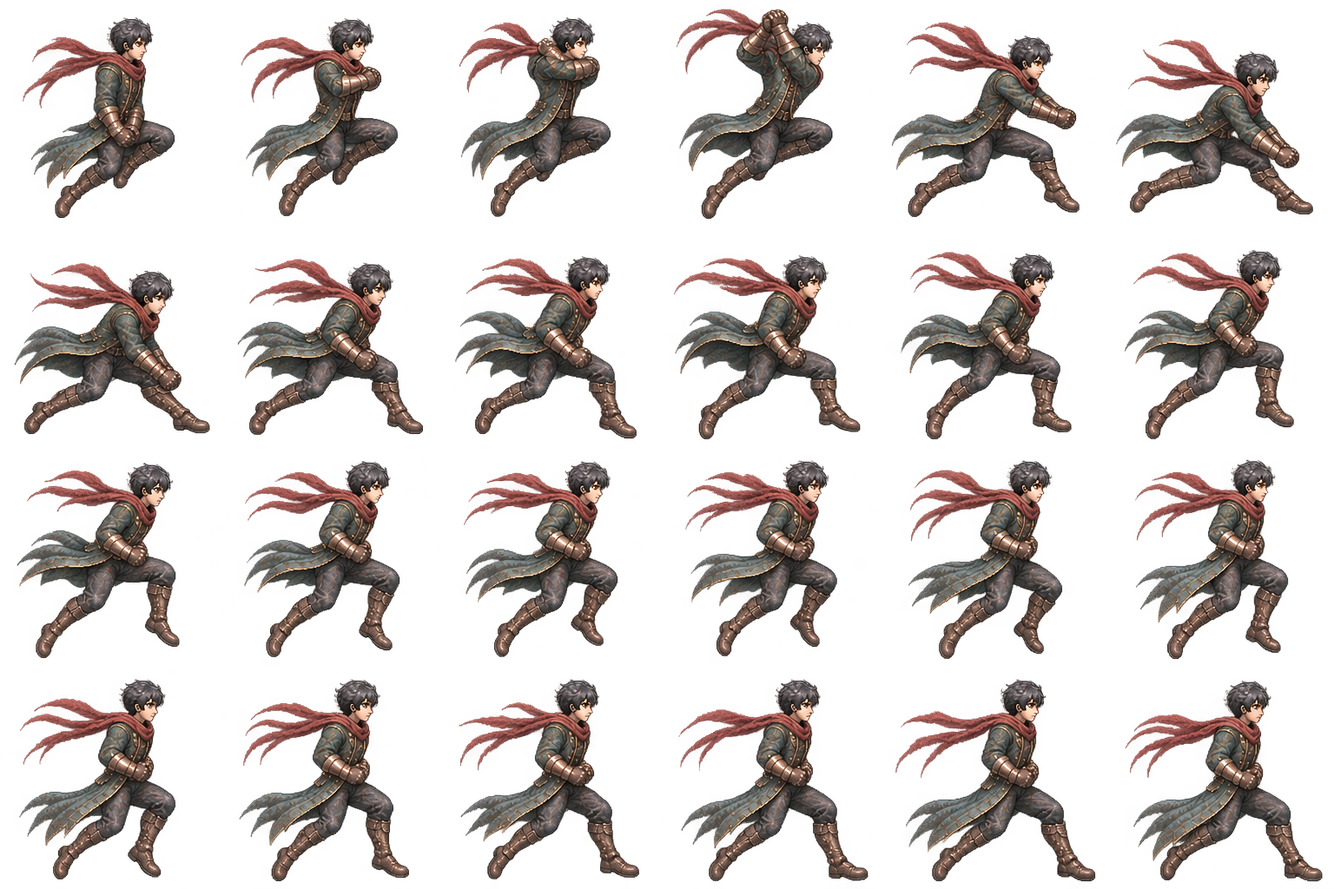
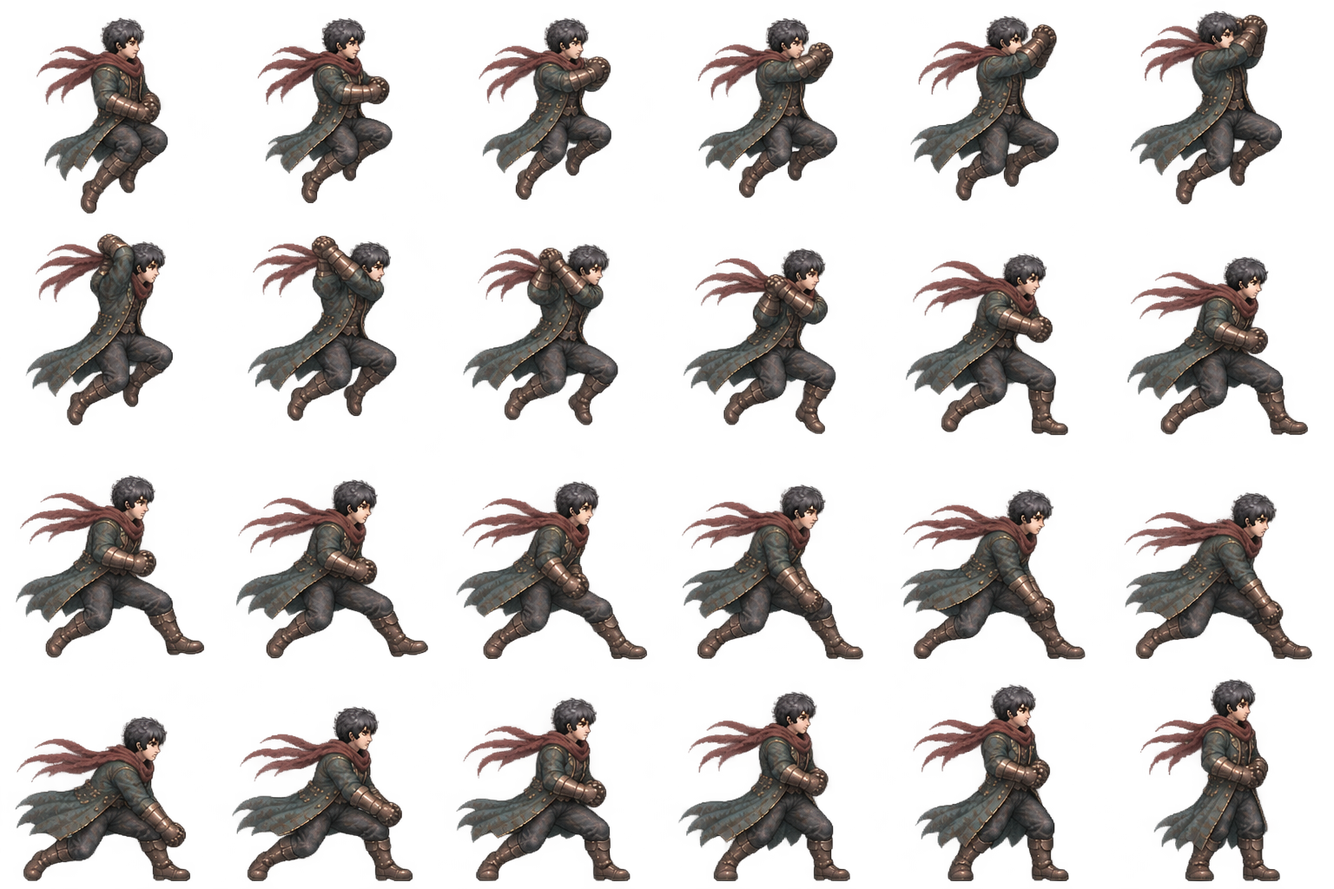
Make sword swings readable and match hero palettes between poses

diff --git a/seventh-bell/src/cuts.js b/seventh-bell/src/cuts.js
@@ -4,22 +4,24 @@ import {HERO_RIG,HERO_FEET} from './hero-rig.js';
 export const STEEL={length:48,guard:.185,grip:.095,axis:.5};
 export const CUT_FRAMES=24;
 export const CUT_CLIPS=['light1','light2','light3','heavy','air','plunge','thrust'];
-const HANDS={"light1":[[80,68],[38,30],[45,15],[47,14],[102,67],[102,98],[99,96],[100,94],[99,89],[93,85],[86,78],[87,73],[85,69],[85,69],[85,69],[85,69],[85,69],[85,69],[85,69],[85,69],[85,69],[85,69],[85,69],[85,69]],"light2":[[81,80],[80,85],[75,87],[75,89],[95,58],[107,23],[99,15],[101,24],[103,35],[101,49],[96,58],[93,66],[87,67],[86,68],[86,69],[86,70],[86,70],[86,71],[85,73],[85,73],[85,73],[85,73],[85,73],[85,73]],"light3":[[80,75],[84,53],[85,36],[66,16],[101,64],[113,89],[97,98],[97,91],[94,83],[90,78],[89,71],[87,68],[86,67],[86,67],[86,67],[86,67],[86,67],[86,67],[86,68],[86,68],[86,68],[86,68],[86,68],[86,68]],"heavy":[[87,77],[85,53],[82,36],[72,13],[102,38],[111,97],[96,103],[95,91],[92,83],[90,79],[87,74],[87,69],[84,69],[85,69],[85,69],[85,69],[85,69],[85,69],[85,70],[85,70],[85,70],[85,70],[85,70],[85,70]],"air":[[79,80],[84,49],[78,30],[65,9],[104,66],[112,91],[96,98],[96,90],[94,83],[91,79],[90,75],[88,71],[86,70],[86,70],[86,70],[86,70],[86,70],[86,70],[86,70],[86,70],[86,70],[86,70],[86,70],[86,70]],"plunge":[[88,68],[84,44],[86,38],[80,47],[79,73],[88,110],[79,98],[77,86],[80,77],[83,70],[85,68],[85,67],[85,67],[85,67],[85,67],[85,67],[85,67],[85,67],[85,67],[85,67],[85,67],[85,67],[85,67],[85,67]],"thrust":[[81,68],[63,66],[52,65],[47,65],[101,52],[116,51],[119,49],[120,49],[120,50],[117,53],[111,56],[104,57],[98,59],[95,61],[88,64],[88,65],[88,65],[88,66],[87,65],[87,65],[87,65],[87,65],[87,65],[87,65]]};
+const HANDS={"light1":[[82,70],[87,59],[87,47],[90,38],[92,27],[90,18],[57,14],[66,23],[69,28],[78,40],[87,56],[88,70],[87,72],[87,77],[91,84],[93,90],[97,96],[100,99],[98,98],[92,88],[90,81],[92,73],[88,67],[88,64]],"light2":[[81,80],[80,85],[75,87],[75,89],[95,58],[107,23],[99,15],[101,24],[103,35],[101,49],[96,58],[93,66],[87,67],[86,68],[86,69],[86,70],[86,70],[86,71],[85,73],[85,73],[85,73],[85,73],[85,73],[85,73]],"light3":[[96,91],[92,80],[90,62],[91,46],[90,34],[87,14],[57,14],[65,21],[68,27],[78,39],[87,59],[93,76],[92,83],[92,84],[95,91],[97,100],[100,104],[102,105],[101,102],[96,93],[92,81],[90,72],[89,64],[89,61]],"heavy":[[83,70],[87,60],[86,46],[90,37],[91,28],[89,17],[57,14],[66,22],[69,27],[78,39],[86,56],[88,70],[88,73],[88,77],[92,85],[93,91],[97,98],[99,100],[98,98],[93,90],[91,82],[91,73],[88,67],[88,64]],"air":[[82,69],[86,59],[87,48],[90,38],[91,28],[90,17],[57,13],[66,21],[68,27],[78,39],[87,56],[89,71],[88,74],[89,78],[93,86],[95,92],[98,98],[100,101],[99,99],[94,91],[91,82],[91,73],[89,67],[89,64]],"plunge":[[88,68],[84,44],[86,38],[80,47],[79,73],[88,110],[79,98],[77,86],[80,77],[83,70],[85,68],[85,67],[85,67],[85,67],[85,67],[85,67],[85,67],[85,67],[85,67],[85,67],[85,67],[85,67],[85,67],[85,67]],"thrust":[[81,68],[63,66],[52,65],[47,65],[101,52],[116,51],[119,49],[120,49],[120,50],[117,53],[111,56],[104,57],[98,59],[95,61],[88,64],[88,65],[88,65],[88,66],[87,65],[87,65],[87,65],[87,65],[87,65],[87,65]]};
 const FEET=HERO_FEET;
 const ROOTS={"light1":[70,70,70,70,70,70,70,70,70,70,70,70,70,70,70,70,70,70,70,70,70,70,70,70],"light2":[70,70,70,70,70,70,70,70,70,70,70,70,70,70,70,70,70,70,70,70,70,70,70,70],"light3":[70,70,70,70,70,70,70,70,70,70,70,70,70,70,70,70,70,70,70,70,70,70,70,70],"heavy":[70,70,70,70,70,70,70,70,70,70,70,70,70,70,70,70,70,70,70,70,70,70,70,70],"air":[70,70,70,70,70,70,70,70,70,70,70,70,70,70,70,70,70,70,70,70,70,70,70,70],"plunge":[74,74,74,74,74,74,74,74,74,74,74,74,74,74,74,74,74,74,74,74,74,74,74,74],"thrust":[70,70,70,70,70,70,70,70,70,70,70,70,70,70,70,70,70,70,70,70,70,70,70,70]};
-const ANGLES={"light1":[20,-70,-120,-130,-60,30,30,30,30,30,30,28,26,24,22,20,20,20,20,20,20,20,20,20],"light2":[20,25,20,15,35,-110,-110,-110,-110,-110,-105,-95,-80,-60,-40,-20,0,15,20,20,20,20,20,20],"light3":[20,-30,-90,-130,-70,35,35,35,35,35,35,32,29,26,23,20,20,20,20,20,20,20,20,20],"heavy":[20,-30,-90,-135,-75,40,40,40,40,40,40,36,32,28,24,20,20,20,20,20,20,20,20,20],"air":[20,-30,-90,-130,-65,65,65,65,65,65,60,55,50,45,40,35,30,25,20,20,20,20,20,20],"plunge":[35,70,90,90,90,90,70,60,50,45,42,40,38,36,35,35,35,35,35,35,35,35,35,35],"thrust":[0,0,0,0,0,0,0,0,0,0,0,0,0,0,0,0,0,0,0,0,0,0,0,0]};
-// Four short anticipation drawings, two contact drawings, eighteen recovery
-// drawings. Cancels can intentionally interrupt recovery; there is no 3D yaw.
+const ANGLES={"light1":[20,-5,-35,-65,-100,-125,-135,-120,-100,-80,-55,-25,0,20,35,40,40,40,38,34,30,26,23,20],"light2":[20,25,20,15,35,-110,-110,-110,-110,-110,-105,-95,-80,-60,-40,-20,0,15,20,20,20,20,20,20],"light3":[32,15,-20,-55,-95,-130,-135,-120,-100,-80,-55,-25,0,20,35,40,40,40,38,34,30,26,23,20],"heavy":[20,-5,-35,-65,-100,-135,-145,-120,-100,-80,-55,-25,0,20,35,40,40,40,38,34,30,26,23,20],"air":[20,-5,-35,-65,-100,-125,-135,-120,-100,-80,-55,-25,0,20,35,40,40,40,38,34,30,26,23,20],"plunge":[35,70,90,90,90,90,70,60,50,45,42,40,38,36,35,35,35,35,35,35,35,35,35,35],"thrust":[0,0,0,0,0,0,0,0,0,0,0,0,0,0,0,0,0,0,0,0,0,0,0,0]};
+// Body drawings are timed by technique. Broad cuts have ten actual in-between
+// drawings during the swing; slowing two impact pictures would still snap.
+const CLIP={charge:'heavy',thrust:'thrust',upper:'light2',counter:'light1',plunge:'plunge'};
+export const CUT_PHASES={light1:[6,10,8],light3:[6,10,8],heavy:[6,10,8],air:[6,10,8],light2:[4,2,18],thrust:[4,2,18],plunge:[4,2,18]};
+export function cutFrameTime(clip,spec,frame){const [prep,swing,recover]=CUT_PHASES[clip];return frame<prep?spec.windup*(frame+.5)/prep:frame<prep+swing?spec.windup+(spec.end-spec.windup)*(frame-prep+.5)/swing:spec.end+(spec.duration-spec.end)*(frame-prep-swing+.5)/recover;}
 export function cutStage(a){
- const s=a.spec,t=a.t;
- if(a.kind==='charge')return Math.min(3,Math.floor(t/.3*4));
+ const s=a.spec,t=a.t,clip=CLIP[a.kind]||(a.air?'air':a.kind),[prep,swing,recover]=CUT_PHASES[clip];
+ if(a.kind==='charge')return Math.min(prep-1,Math.floor(t/.3*prep));
  if(a.kind==='plunge'&&a.landed)return 5+Math.min(18,Math.floor((a.recoveryT||0)/.36*19));
  if(a.kind==='plunge')return t<s.windup?Math.min(3,Math.floor(t/s.windup*4)):4;
- if(t<s.windup)return Math.min(3,Math.floor(t/s.windup*4));
- if(t<s.end)return 4+Math.min(1,Math.floor((t-s.windup)/(s.end-s.windup)*2));
- return 6+Math.min(17,Math.floor((t-s.end)/(s.duration-s.end)*18));
+ if(t<s.windup)return Math.min(prep-1,Math.floor(t/s.windup*prep));
+ if(t<s.end)return prep+Math.min(swing-1,Math.floor((t-s.windup)/(s.end-s.windup)*swing));
+ return prep+swing+Math.min(recover-1,Math.floor((t-s.end)/(s.duration-s.end)*recover));
 }
-const CLIP={charge:'heavy',thrust:'thrust',upper:'light2',counter:'light1',plunge:'plunge'};
 export function cutAngle(a){return ANGLES[CLIP[a.kind]||(a.air?'air':a.kind)][cutStage(a)];}
 export function cutPose(p,clock=0){const a=p.action;
  if(!a){if(p.grounded&&Math.abs(p.vx)<12&&!p.brake&&!p.land&&!p.hurt&&!p.dead){const col=Math.floor(clock*5)%8;return{sheet:'cut-body',row:3,col,size:HERO_RIG.idle.size,root:[79.5,79.5,79.5,79.5,79.5,78.5,78.5,79][col],foot:HERO_FEET.idle[col],hand:[[68,80],[68,80],[69,80],[68,80],[68,80],[67,80],[67,80],[68,80]][col],angle:20,steel:true};}return null;}

diff --git a/seventh-bell/src/art.js b/seventh-bell/src/art.js
@@ -1,15 +1,23 @@
+import {heroPalette,matchHeroPalette} from './hero-palette.js';
 import {HERO_BASE_SIZE} from './hero-rig.js';
 import {STEEL} from './cuts.js';
 import {registeredPose} from './blade.js';
 import {PATTERNS} from './bosses.js';
 export const SHEETS={'cut-light1':[6,4,128],'cut-light2':[6,4,128],'cut-light3':[6,4,128],'cut-heavy':[6,4,128],'cut-air':[6,4,128],'cut-plunge':[6,4,128],'cut-thrust':[6,4,128],'cut-body':[8,4,128],'steel-blade':[1,1,128],tutor:[6,4,128],swordplay:[8,4,128],'motion-extras':[8,4,128],'echo-blade':[4,2,128],arkein:[6,4,128],traps:[4,3,128],repairman:[8,8,64],remnants:[8,6,64],edran:[6,4,128],marie:[6,4,128],brag:[6,4,128],leonel:[6,4,128],services:[4,2,128],'archive-objects':[4,2,128],objects:[4,4,128],masonry:[4,4,128]};
 const sheets=new Map(),cache=new Map();
+let palette;
+const heroSheets=new Set(['repairman','cut-body','motion-extras','swordplay',...Object.keys(SHEETS).filter(k=>k.startsWith('cut-'))]);
+function matchHero(id,data){
+ if(!heroSheets.has(id))return;
+ if(!palette){const im=sheets.get('cut-body'),c=document.createElement('canvas');c.width=c.height=128;const ctx=c.getContext('2d');ctx.imageSmoothingEnabled=false;ctx.drawImage(im,0,im.height*3/4,im.width/8,im.height/4,0,0,128,128);palette=heroPalette(ctx.getImageData(0,0,128,128).data);}
+ matchHeroPalette(data,palette);
+}
 export async function loadArt(progress=()=>{}){let n=0;const ids=[...Object.keys(SHEETS),'kingdom','ruins','cathedral','foundry','archive','palace'];await Promise.all(ids.map(id=>new Promise((resolve,reject)=>{const image=new Image();image.onload=()=>{sheets.set(id,image);progress(++n/ids.length);resolve();};image.onerror=()=>reject(Error(id));image.src=new URL('../assets/'+id+'.png',import.meta.url).href+new URL(import.meta.url).search;})));}
 export function sheet(id){return sheets.get(id);}
 export function cell(id,col,row){const key=[id,col,row].join(':');if(cache.has(key))return cache.get(key);const im=sheets.get(id);if(!im)throw Error('Missing artwork '+id);const [cols,rows,size]=SHEETS[id],c=document.createElement('canvas');c.width=c.height=size;const ctx=c.getContext('2d',{willReadFrequently:true});ctx.imageSmoothingEnabled=false;let sx=col*im.width/cols,sy=row*im.height/rows,sw=im.width/cols,sh=im.height/rows;
  if(id==='objects'||id==='masonry'){const ys=[0,.23,.487,.744,1];sy=im.height*ys[row];sh=im.height*(ys[row+1]-ys[row]);if(row===0){sy+=12;sh-=15;}}
  ctx.drawImage(im,sx,sy,sw,sh,0,0,size,size);let data=ctx.getImageData(0,0,size,size);if(id==='archive-objects'&&row===1&&col<3){let minX=size,minY=size,maxX=0,maxY=0;for(let y=0;y<size;y++)for(let x=0;x<size;x++)if(data.data[(y*size+x)*4+3]>=150){minX=Math.min(minX,x);minY=Math.min(minY,y);maxX=Math.max(maxX,x);maxY=Math.max(maxY,y);}if(minX<=maxX){const copy=document.createElement('canvas');copy.width=copy.height=size;copy.getContext('2d').drawImage(c,0,0);ctx.clearRect(0,0,size,size);ctx.drawImage(copy,minX,minY,maxX-minX+1,maxY-minY+1,0,0,size,size);data=ctx.getImageData(0,0,size,size);}}
- for(let i=3;i<data.data.length;i+=4)data.data[i]=id==='masonry'?255:data.data[i]>=150?255:0;let bottom=0;for(let i=3;i<data.data.length;i+=4)if(data.data[i])bottom=Math.floor(i/(size*4))+1;let minX=size,minY=size,maxX=-1,maxY=-1;for(let y=0;y<size;y++)for(let x=0;x<size;x++)if(data.data[(y*size+x)*4+3]){minX=Math.min(minX,x);minY=Math.min(minY,y);maxX=Math.max(maxX,x);maxY=Math.max(maxY,y);}c.sourceAspect=sw/sh;c.opaqueBounds={x:minX,y:minY,w:maxX-minX+1,h:maxY-minY+1};c.footPad=size-bottom;ctx.putImageData(data,0,0);cache.set(key,c);return c;}
+ for(let i=3;i<data.data.length;i+=4)data.data[i]=id==='masonry'?255:data.data[i]>=150?255:0;matchHero(id,data.data);let bottom=0;for(let i=3;i<data.data.length;i+=4)if(data.data[i])bottom=Math.floor(i/(size*4))+1;let minX=size,minY=size,maxX=-1,maxY=-1;for(let y=0;y<size;y++)for(let x=0;x<size;x++)if(data.data[(y*size+x)*4+3]){minX=Math.min(minX,x);minY=Math.min(minY,y);maxX=Math.max(maxX,x);maxY=Math.max(maxY,y);}c.sourceAspect=sw/sh;c.opaqueBounds={x:minX,y:minY,w:maxX-minX+1,h:maxY-minY+1};c.footPad=size-bottom;ctx.putImageData(data,0,0);cache.set(key,c);return c;}
 export const PROP={arch:[0,1],tower:[1,1],trainingExit:[2,1],shrine:[2,1],gate:[3,1],tree:[0,2],statue:[1,2],columns:[2,2],lift:[3,2],chest:[0,3],lantern:[1,3],lever:[2,3],npc:[3,3],letter:[0,3],bellrope:[2,3],valve:[2,3],ending:[1,1],archiveway:[1,1]};
 export function draw(ctx,id,col,row,x,y,w,h,flip=false,alpha=1,alignFeet=false){const im=cell(id,col,row);ctx.save();ctx.globalAlpha=alpha;ctx.translate(Math.round(x),Math.round(y+(alignFeet?im.footPad*h/im.height:0)));if(flip)ctx.scale(-1,1);ctx.drawImage(im,Math.round(-w/2),Math.round(-h),w,h);ctx.restore();}
 const ARCHIVE_PROP={archiveShelf:[0,0],lectern:[1,0],finalrecord:[1,0],indexwheel:[2,0],archiveLamp:[3,0],archiveChest:[3,1]};

diff --git a/seventh-bell/src/game.js b/seventh-bell/src/game.js
@@ -85,7 +85,7 @@ export class Game{
    if(!p.grounded&&a.spec&&a.kind!=='heal'&&a.kind!=='skill')a.air=true;
    if(a.kind==='heal'&&a.t>=a.spec.windup&&!a.applied){a.applied=true;p.hp=Math.min(this.maxHp,p.hp+Math.ceil(this.maxHp*POTION.ratio));this.fx(p.x,p.y-25,'heal',.8);this.save();}
    else if(a.kind!=='heal'&&a.spec&&a.t>=a.spec.windup&&a.t<a.spec.end)this.resolveAttack(a);
-   if(a.impactPause&&a.t>=(a.spec.windup+a.spec.end)/2){this.hitstop=Math.max(this.hitstop,a.impactPause);a.impactPause=0;}
+   if(a.impactPause&&a.t>=a.spec.windup+(a.spec.end-a.spec.windup)*.8){this.hitstop=Math.max(this.hitstop,a.impactPause);a.impactPause=0;}
    const duration=a.kind==='parry'?.55:p.comboQueued&&a.spec.chainAt?a.spec.chainAt:a.spec.duration;
    if(a.t>=duration){const next=a.kind==='light1'?'light3':null,queued=p.comboQueued;p.action=null;p.comboQueued=false;if(queued&&next)this.startAttack(next);}
   }
@@ -102,7 +102,7 @@ export class Game{
  for(const e of [...this.world.enemies,this.world.boss]){if(e.dead||e.boss&&(!this.bossActive||e!==this.world.boss)||a.hit.has(e.id)||!touches(body(e)))continue;a.hit.add(e.id);this.damageEnemy(e,this.attackDamage(a),p.dir,s.push,a.kind);if(a.kind==='light3'&&p.grounded&&!a.impact){a.impact=true;this.fx(p.x+p.dir*26,p.y,'dust',.35);}if(a.kind==='upper'&&!e.boss&&!e.training&&!e.flying&&!e.dead){e.vy=-255;e.grounded=false;e.y-=1;}this.lastHits.push({enemy:e.id,kind:a.kind,t:a.t,windup:s.windup,end:s.end,blade:{...blade}});this.lastHits=this.lastHits.slice(-30);}
  const seal=this.world.objects.find(o=>o.id==='forgecache');if(a.kind==='heavy'&&this.profile.flags.forge&&!this.profile.flags.slag&&touches({x:seal.x-22,y:seal.y-35,w:44,h:35})){this.profile.flags.slag=true;this.tell('보물함을 묶은 쇠사슬이 끊어졌다.');this.fx(seal.x,seal.y-20,'hit',.8);this.sound('mechanism');this.save();}}
 
- hitPause(duration,kind){const a=this.p.action;if(kind==='light3'&&a?.kind==='light3'&&a.t<(a.spec.windup+a.spec.end)/2)a.impactPause=Math.max(a.impactPause||0,duration);else this.hitstop=Math.max(this.hitstop,duration);}
+ hitPause(duration,kind){const a=this.p.action;if(['light3','heavy'].includes(kind)&&a?.kind===kind&&a.t<a.spec.windup+(a.spec.end-a.spec.windup)*.8)a.impactPause=Math.max(a.impactPause||0,duration);else this.hitstop=Math.max(this.hitstop,duration);}
  damageEnemy(e,n,dir,push=80,kind=null){const weight=['heavy','plunge','counter'].includes(kind)?1.5:kind==='light3'?1.65:1;if(e.training){if(!this.inTutorial||e.dead)return;tutorialHit(this,e,kind,n);this.hitPause(.05*weight,kind);this.shake=1.2*weight;this.fx(e.x,e.y-e.h*.5,'hit',.3);this.sound(kind==='light3'?'slamHit':'hit');return;}if(e.dead||e.state==='weakened'&&e.grace>0)return;e.hp=Math.max(0,e.hp-n);e.hit=.13;e.vx=dir*push;e.stagger=e.boss?Math.max(e.stagger,.09):kind==='light3'?.48:.34;if(!e.boss){e.state='recover';e.t=0;}this.hitPause((e.boss?.06:.05)*weight,kind);this.shake=(e.boss?2:1.2)*weight;this.fx(e.x,e.y-e.h*.5,'hit',.3);this.sound(kind==='light3'?'slamHit':'hit');this.effects.push({kind:'number',x:e.x,y:e.y-e.h-6,text:String(n),life:.65,max:.65});
  if(e.boss&&e.phase===2&&e.hp<=e.maxHp*.115&&this.profile.flags[BOSS_DEFS[e.id].clue]&&!e.offered){e.offered=true;e.hp=Math.max(1,e.hp);e.state='weakened';e.stagger=0;e.t=0;e.grace=1.3;this.p.comboQueued=false;this.projectiles=[];this.tell('종의 박자가 기록과 같다. 가까이서 W를 누르면 울림을 맞출 수 있다.');return;}
  if(e.hp<=0){e.dead=true;e.deathT=0;e.vx=0;if(e.boss){this.clearBoss('slain');return;}if(!this.profile.killed.includes(e.id))this.profile.killed.push(e.id);this.profile.marks+=(e.type==='watchman'?10:12)+(e.rank||0)*4;this.gainXp((e.type==='watchman'?18:22)+(e.rank||0)*5);this.sound('coin');}}

diff --git a/seventh-bell/src/main.js b/seventh-bell/src/main.js
@@ -3,7 +3,7 @@ import {LESSONS,trainerOf} from './tutorial.js';
 import {BRANCHES,learnReason} from './skills.js';
 import {mapX,originalX,chapterAtWorld} from './layout.js';
 import {registeredPose,worldBlade} from './blade.js';
-import {CUT_CLIPS,CUT_FRAMES} from './cuts.js';
+import {CUT_CLIPS,CUT_FRAMES,CUT_PHASES,cutFrameTime} from './cuts.js';
 import {ATTACKS} from './data.js';
 import {TRAVEL_COST} from './economy.js';
 import {BOSS_DEFS} from './bosses.js';
@@ -72,7 +72,7 @@ async function boot(){await loadArt(n=>$('#load-percent').textContent=Math.round
  const canvas=$('#world');canvas.addEventListener('contextmenu',e=>e.preventDefault());canvas.addEventListener('pointerdown',e=>{if(modal||!$('#welcome').hidden||e.pointerType==='touch')return;e.preventDefault();audio.unlock();canvas.focus();if(e.button===0){const b=canvas.getBoundingClientRect(),x=(e.clientX-b.left)/b.width*render.width+render.x;if(!game.p.action)game.p.dir=x>game.p.x?1:-1;game.press('attack',input);}if(e.button===2)game.press('parry');});
  function release(e){const b=e.currentTarget;if(b.dataset.hold)input[b.dataset.hold]=false;if(b.dataset.press==='jump')input.jump=false;if(b.dataset.press==='heavy'){if(e.type==='pointerup')game.releaseCharge();else game.cancelCharge();}}
  $$('[data-hold],[data-press]').forEach(b=>{b.onpointerdown=e=>{e.preventDefault();if(modal||!$('#welcome').hidden)return;audio.unlock();b.setPointerCapture(e.pointerId);if(b.dataset.hold)input[b.dataset.hold]=true;else{if(b.dataset.press==='jump')input.jump=true;if(b.dataset.press==='heavy')game.beginCharge();else game.press(b.dataset.press,input);}};b.onpointerup=b.onpointercancel=b.onlostpointercapture=release;});if(matchMedia('(pointer:coarse)').matches||navigator.maxTouchPoints>0)document.body.classList.add('touch');
- resize();if(new URLSearchParams(location.search).has('test'))window.__seventh={game,render,input,close,updateUI,artStats,art:{cell,draw,drawPose,drawHero,heroFrame},speechUI,coords:{mapX,originalX},poses:{registeredPose,worldBlade,CUT_CLIPS,CUT_FRAMES,ATTACKS,HERO_HEIGHT,HERO_RIG}};
+ resize();if(new URLSearchParams(location.search).has('test'))window.__seventh={game,render,input,close,updateUI,artStats,art:{cell,draw,drawPose,drawHero,heroFrame},speechUI,coords:{mapX,originalX},poses:{registeredPose,worldBlade,CUT_CLIPS,CUT_FRAMES,CUT_PHASES,cutFrameTime,ATTACKS,HERO_HEIGHT,HERO_RIG}};
  let ui=0;function frame(now){const dt=Math.min(.08,(now-last)/1000);last=now;game.update(dt,input);render.render(dt);speechUI.update(!modal&&$('#welcome').hidden&&game.profile.started);ui+=dt;if(ui>.06){updateUI();ui=0;}if(!game.paused)audio.update(game.bossActive,game.zone==='crypt',game.profile.flags[['edran','marie','brag','leonel','arkein'][chapterAtWorld(game.p.x)-1]]);requestAnimationFrame(frame);}requestAnimationFrame(frame);
 }
 boot().catch(e=>{console.error(e);$('#loading-error').hidden=false;$('#loading-error p').textContent='게임을 불러오지 못했습니다. 연결을 확인한 뒤 다시 열어 주세요.';});

diff --git a/seventh-bell/src/hero-rig.js b/seventh-bell/src/hero-rig.js
@@ -7,11 +7,11 @@ export const HERO_BASE_SIZE=Math.round(HERO_HEIGHT*64/(62-2));
 const register=(sheet,col,row,crown,foot)=>({sheet,col,row,crown,foot,size:Math.round(HERO_HEIGHT*128/(foot-crown))});
 export const HERO_RIG={
  idle:register("cut-body",0,3,19,121),
- light1:register("cut-light1",5,3,10,125),
+ light1:register("cut-light1",5,3,7,123),
  light2:register("cut-light2",5,3,10,123),
- light3:register("cut-light3",5,3,9,124),
- heavy:register("cut-heavy",5,3,3,124),
- air:register("cut-air",5,3,9,124),
+ light3:register("cut-light3",5,3,8,124),
+ heavy:register("cut-heavy",5,3,7,124),
+ air:register("cut-air",5,3,8,124),
  plunge:register("cut-plunge",5,3,8,123),
  thrust:register("cut-thrust",5,3,13,125),
  brake:register("motion-extras",7,1,17,120),
@@ -19,4 +19,4 @@ export const HERO_RIG={
  skill:register("motion-extras",0,3,16,121)
 };
 // Sole positions measured on the actual hard-alpha 128px runtime cells.
-export const HERO_FEET={"light1":[125,125,125,125,125,125,126,126,125,125,125,125,125,125,125,125,125,125,125,125,125,125,125,125],"light2":[123,123,123,123,123,123,122,123,123,123,122,123,123,123,123,123,123,123,123,123,123,123,123,123],"light3":[124,124,124,124,125,125,125,125,125,125,125,125,124,124,124,124,124,124,124,124,124,124,124,124],"heavy":[124,124,125,124,124,124,124,124,124,124,124,124,124,124,124,124,124,124,124,124,124,124,124,124],"air":[126,125,125,126,125,124,122,123,125,125,125,125,123,123,122,122,124,124,123,124,123,124,124,124],"plunge":[121,112,120,124,128,128,124,124,124,124,124,124,123,123,123,123,123,123,123,123,123,123,123,123],"thrust":[125,125,125,125,125,125,125,125,125,125,125,125,125,125,125,125,125,125,125,125,125,125,125,125],"idle":[121,121,121,122,122,122,121,121],"brake":[119,117,120,120,120,120,120,120],"heal":[121,121,121,121,121,121,121,121],"skill":[121,121,121,121,121,121,121,121]};
+export const HERO_FEET={"light1":[123,123,123,123,123,123,123,123,123,123,123,123,123,123,123,123,123,123,123,123,123,123,123,123],"light2":[123,123,123,123,123,123,122,123,123,123,122,123,123,123,123,123,123,123,123,123,123,123,123,123],"light3":[124,124,124,124,124,124,123,123,123,123,123,123,123,124,123,123,123,123,124,124,124,124,124,124],"heavy":[124,124,124,124,124,124,123,123,124,124,123,123,123,123,124,124,124,124,124,123,123,124,124,124],"air":[123,117,115,114,116,118,117,114,117,122,123,123,123,123,124,124,124,124,124,124,124,124,124,124],"plunge":[121,112,120,124,128,128,124,124,124,124,124,124,123,123,123,123,123,123,123,123,123,123,123,123],"thrust":[125,125,125,125,125,125,125,125,125,125,125,125,125,125,125,125,125,125,125,125,125,125,125,125],"idle":[121,121,121,122,122,122,121,121],"brake":[119,117,120,120,120,120,120,120],"heal":[121,121,121,121,121,121,121,121],"skill":[121,121,121,121,121,121,121,121]};

diff --git a/seventh-bell/src/renderer.js b/seventh-bell/src/renderer.js
@@ -34,8 +34,8 @@ export class Renderer{
  if(p.action?.kind==='dash'){for(let i=1;i<4;i++)draw(c,'repairman',Math.min(3,Math.floor(p.action.t/.28*4)),6,p.x-p.dir*i*13,p.y,HERO_BASE_SIZE,HERO_BASE_SIZE,p.dir<0,.08*(4-i));}
  for(const q of g.projectiles){c.save();c.globalAlpha=Math.min(1,((q.range||300)-(q.distance||0))/55);if(q.kind==='echoBlade'){draw(c,'echo-blade',Math.floor(g.clock*14)%4,0,q.x,q.y+14,28,28,q.vx<0);}else if(q.kind==='bolt'){boundedProp(c,3,1,q.x,q.y+3,30,6);}else if(q.kind==='page'){this.glow(q.x,q.y,18,'#c6a0e9');c.save();c.translate(Math.round(q.x),Math.round(q.y));c.rotate(Math.sin(g.clock*8)*.3);c.fillStyle='#e8dfec';c.fillRect(-6,-4,12,8);c.fillStyle='#9e80bd';c.fillRect(-3,-1,6,1);c.fillRect(-3,1,4,1);c.restore();}else if(q.kind==='wave'){c.strokeStyle='#e1bd79';c.lineWidth=2;c.beginPath();c.moveTo(q.x-12,q.y+6);c.lineTo(q.x-2,q.y-10);c.lineTo(q.x+9,q.y+4);c.stroke();this.glow(q.x,q.y,16,'#e5b970');}else{this.glow(q.x,q.y,16,'#e4b476');c.fillStyle='#f0e1ae';c.fillRect(Math.round(q.x-2),Math.round(q.y-2),4,4);}c.restore();}
  for(const e of g.effects)this.effect(e);if(g.world.boss.state==='windup'&&g.bossActive){const e=g.world.boss;this.glow(e.x+e.dir*28,e.y-70,25,'#f2be65');}
- c.restore();this.atmosphere();if(g.effects.some(e=>e.kind==='parry'&&e.life>e.max-.07)){c.fillStyle='#fff1d61c';c.fillRect(0,0,WIDTH,HEIGHT);}if(p.action?.kind==='charge'&&p.action.t>=.5)this.glow(p.x-this.x+p.dir*8,p.y-this.y-39,17,'#e1c78f');
- if(p.hurt>0){c.fillStyle='#9b4538'+Math.floor(p.hurt/.28*38).toString(16).padStart(2,'0');c.fillRect(0,0,WIDTH,HEIGHT);}if(p.dead){c.fillStyle='#071018'+Math.min(225,Math.floor(p.deathT*85)).toString(16).padStart(2,'0');c.fillRect(0,0,WIDTH,HEIGHT);}
+ c.restore();this.atmosphere();if(p.action?.kind==='charge'&&p.action.t>=.5)this.glow(p.x-this.x+p.dir*8,p.y-this.y-39,17,'#e1c78f');
+ if(p.hurt>0){const edge=c.createRadialGradient(WIDTH/2,HEIGHT/2,HEIGHT*.6,WIDTH/2,HEIGHT/2,WIDTH*.6);edge.addColorStop(0,'#9b453800');edge.addColorStop(1,'#9b4538'+Math.min(80,Math.floor(p.hurt/.28*80)).toString(16).padStart(2,'0'));c.fillStyle=edge;c.fillRect(0,0,WIDTH,HEIGHT);}if(p.dead){c.fillStyle='#071018'+Math.min(225,Math.floor(p.deathT*85)).toString(16).padStart(2,'0');c.fillRect(0,0,WIDTH,HEIGHT);}
  }
  afterimages(){const g=this.g,c=this.c,echoes=g.bladeEchoes;let ghosts=0;for(let i=echoes.length-1;i>=0&&ghosts<2;i-=3){const e=echoes[i],age=g.clock-e.time;if(age<.025||age>=ECHO_LIFE)continue;drawPose(c,e.pose,e.x,e.y,e.dir,.12*(1-age/ECHO_LIFE),true);ghosts++;}
  c.save();c.lineJoin='round';c.lineCap='round';

diff --git a/seventh-bell/src/hero-palette.js b/seventh-bell/src/hero-palette.js
@@ -1,0 +1,29 @@
+// One material palette, sampled from the original ready stance. Each source
+// frame is mapped once when cached, so changing sheets cannot change exposure.
+// Pixels keep their local shading order; this never adjusts the world camera.
+const light=(r,g,b)=>Math.round(.2126*r+.7152*g+.0722*b);
+export function heroMaterial(r,g,b){
+ const hi=Math.max(r,g,b),lo=Math.min(r,g,b),chroma=hi-lo;
+ if(chroma<8||chroma/Math.max(1,hi)<.08)return 0;
+ if(g>r*1.3&&b>r*1.3&&chroma/hi>.55)return -1;
+ if(r>g*1.18&&r>b*1.18&&g<b*1.35)return 1;
+ if(r>g&&g>=b)return 2;
+ return 3;
+}
+export function heroPalette(pixels){
+ const groups=Array.from({length:4},()=>[]);
+ for(let i=0;i<pixels.length;i+=4)if(pixels[i+3]>=150){const rgb=[pixels[i],pixels[i+1],pixels[i+2]],m=heroMaterial(...rgb);if(m>=0)groups[m].push(rgb);}
+ return groups.map(colors=>{
+  colors.sort((a,b)=>light(...a)-light(...b));
+  return Array.from({length:32},(_,j)=>{
+   const sample=colors.slice(Math.floor(j*colors.length/32),Math.max(Math.floor(j*colors.length/32)+1,Math.floor((j+1)*colors.length/32)));
+   return [0,1,2].map(k=>Math.round(sample.reduce((sum,c)=>sum+c[k],0)/sample.length));
+  });
+ });
+}
+export function matchHeroPalette(pixels,palette){
+ const hist=Array.from({length:4},()=>new Uint32Array(256)),totals=[0,0,0,0];
+ for(let i=0;i<pixels.length;i+=4)if(pixels[i+3]>=150){const m=heroMaterial(pixels[i],pixels[i+1],pixels[i+2]);if(m>=0){hist[m][light(pixels[i],pixels[i+1],pixels[i+2])]++;totals[m]++;}}
+ const lut=hist.map((bins,m)=>{let sum=0;return Array.from(bins,count=>{const q=(sum+count*.5)/Math.max(1,totals[m]);sum+=count;return palette[m][Math.min(31,Math.floor(q*32))];});});
+ for(let i=0;i<pixels.length;i+=4)if(pixels[i+3]>=150){const m=heroMaterial(pixels[i],pixels[i+1],pixels[i+2]);if(m>=0){const rgb=lut[m][light(pixels[i],pixels[i+1],pixels[i+2])];for(let k=0;k<3;k++)pixels[i+k]=rgb[k];}}
+}

diff --git a/seventh-bell/src/data.js b/seventh-bell/src/data.js
@@ -4,12 +4,12 @@ import {TALENTS} from './skills.js';
 export {TALENTS} from './skills.js';
 export const SAVE_KEY='seventh-bell.save.v1',WIDTH=640,HEIGHT=360;
 export const ATTACKS={
- light1:{duration:.50,windup:.125,end:.158334,chainAt:.29,damage:18,reach:56,stamina:8,push:90,row:4,start:0},
- light3:{duration:.64,windup:.20,end:.233334,damage:44,reach:73,stamina:15,push:230,row:5,start:0},
- heavy:{duration:.88,windup:.32,end:.353334,damage:50,reach:78,stamina:23,push:210,row:5,start:4},
+ light1:{duration:.72,windup:.17,end:.37,chainAt:.49,damage:18,reach:56,stamina:8,push:90,row:4,start:0},
+ light3:{duration:.88,windup:.23,end:.45,damage:44,reach:73,stamina:15,push:230,row:5,start:0},
+ heavy:{duration:1.04,windup:.34,end:.58,damage:50,reach:78,stamina:23,push:210,row:5,start:4},
  thrust:{duration:.60,windup:.14,end:.173334,damage:26,stamina:12,push:130},
  upper:{duration:.54,windup:.10,end:.133334,damage:22,stamina:15,push:55},
- counter:{duration:.49,windup:.066667,end:.10,damage:38,stamina:16,push:170},
+ counter:{duration:.70,windup:.10,end:.30,damage:38,stamina:16,push:170},
  plunge:{duration:.52,windup:.12,end:.16,damage:36,stamina:18,push:125},
  skill:{duration:.68,windup:.25,end:.39,damage:37,reach:145,stamina:28,push:180,row:7,start:0}
 };

diff --git a/seventh-bell/README.md b/seventh-bell/README.md
@@ -1,6 +1,6 @@
 # 잔향: 일곱 번째 종
 
-**ECHOES OF THE SEVENTH BELL · 0.9.3**
+**ECHOES OF THE SEVENTH BELL · 0.9.4**
 
 이름 없는 종 수리공이 누나를 찾아 왕국으로 돌아온다. 성벽·대성당·제철도시·서고·왕궁이 이어지는 **제1~5장**과 마지막 선택을 플레이할 수 있다. VOIDRUN·ELDERMERE와 코드, 에셋, 저장이 분리된 Canvas 2D/Web Audio 게임이다. 외부 런타임이나 CDN은 없다.
 
@@ -14,6 +14,7 @@ npm run dev                  # http://localhost:4190/
 npm test
 npm run test:reset            # 초기화·실제 새로고침·취소·저장 실패·터치
 npm run test:size             # 실제 몸 크기·발 기준점·동작 전환·터치 확인
+npm run test:clarity          # 실제 재생 속도·동작별 옷 색·전투 중 배경 밝기 검사
 npm run test:frames           # 잔상 없이 베기마다 실제 몸 그림 24장·60Hz 재생 확인
 npm run test:motion           # 위 프레임 검사 + 판정·잔상·좌우·공중·터치
 npm run test:techniques       # 대공·대시 찌르기·낙하·모으기·반격·터치
@@ -56,7 +57,9 @@ npm run build
 
 ## 모션과 검의 판정
 
-캐릭터의 기존 키와 성인 체형을 유지하고, 몸을 화면 안쪽으로 돌리던 자세를 옆모습으로 바꿨다. 기본기는 **큰 사선 베기 → 강한 양손 내려찍기**다. 어깨의 기울기, 무릎 굽힘과 발 디딤으로 힘을 싣고 옷자락이 뒤따라온다. 기본 2연타·대공기·강공격·공중 베기·낙하 공격·찌르기에 전용 6×4 시트 일곱 장, 총 168개의 실제 몸 그림을 사용한다. 각각 24장이다. 준비 4장 → 타격 2장 → 복귀 18장으로, 칼이 지나가는 순간은 60Hz 기준 두 프레임이다. 방해받지 않은 일곱 종류 모두 24단계가 재생된다. 기본 콤보에서는 올려베기를 빼고 첫 베기에서 내려찍기로 바로 잇는다. 내려찍기는 기본 피해 44(이전 33), 넉백 230(이전 160), 집중 소모 15다. 준비 0.2초 후 빠르게 내려치며, 낮은 마무리 그림에서 0.0825초(보스 0.099초) 멈춘다. 일반 적의 경직도 0.48초로 늘리고, 낮은 충격음과 바닥 먼지를 더했다. 이어치기와 회피·점프 캔슬은 복귀 동작을 중단하므로 일부 복귀 그림을 건너뛴다. 회복약 동작은 캔슬할 수 없다.
+캐릭터의 기존 키와 성인 체형을 유지하고, 몸을 화면 안쪽으로 돌리던 자세를 옆모습으로 바꿨다. 기본기는 **큰 사선 베기 → 강한 양손 내려찍기**다. 기본 2연타·대공기·강공격·공중 베기·낙하 공격·찌르기에 전용 6×4 시트 일곱 장, 총 168개의 실제 몸 그림을 사용한다. 각각 24장이다. 0.9.4에서는 일반 베기·내려찍기·강공격·공중 베기 네 시트를 다시 만들었다. 준비 6장 → 베는 과정 10장 → 복귀 8장으로 어깨와 팔, 무릎이 함께 움직인다. 두 타격 그림을 오래 붙잡는 대신 칼이 내려오는 중간 자세를 늘렸다. 일반 베기는 준비 0.17초·베기 0.20초·전체 0.72초, 내려찍기는 준비 0.23초·베기 0.22초·전체 0.88초다. 강공격은 베기 0.24초, 반격은 같은 몸 그림을 쓰되 베기 0.20초다. 대공기·찌르기·낙하는 별도 동작 배분을 유지한다. 기본 콤보에 올려베기는 없다. 내려찍기 피해 44·넉백 230·집중 소모 15는 유지하고, 낮은 마무리 그림에서 0.0825초(보스 0.099초) 멈춘다. 일반 적 경직은 0.48초다. 이어치기와 회피·점프 캔슬은 복귀를 중단하므로 일부 그림을 건너뛴다. 회복약 동작은 캔슬할 수 없다.
+
+대기 자세의 색을 기준으로 피부·가죽/황동·붉은 목도리·청록 외투의 명암을 시트 전환 전에 맞춘다. 픽셀별 명암 순서와 불투명 윤곽은 유지하며, 게임 화면의 노출을 실시간으로 바꾸지 않는다. 패링은 검 주변의 불꽃과 금속음으로 표시하고 화면 전체를 하얗게 덮지 않는다. 피격은 화면 가장자리만 붉게 표시한다.
 
 회피 중 일반 공격은 긴 **찌르기**, ↑+공격은 일반 적을 띄우는 **대공기**, 공중 ↓+공격은 **낙하 공격**이다. 낙하는 실제 바닥에 닿아야 끝나며 원거리 충격파를 만들지 않는다. 대공기는 보스·날짐승·점검기사를 띄우지 않는다. K/X를 누르고 있다 떼면 강공격이 나가고, 0.5초 이상 모으면 피해가 1.65배가 된다. 집중은 놓는 순간 한 번만 쓴다. 모으는 중 이동·공격 무적이나 회복은 없고, 점프·회피·피격·창 전환으로 취소하면 뒤늦은 키 해제에서 공격이 나가지 않는다. 정면 패링 성공 후 0.8초 안에 공격하면 집중 16을 쓰는 **반격 베기**로 파고든다. 찌르기·반격의 이동도 벽과 충돌한다. 찌르기는 전용 24장 시트를 쓴다. 0.14초 동안 팔꿈치를 뒤로 빼고 손을 허리 뒤로 당겨 뒷다리에 체중을 실었다가, 앞발을 디디며 팔과 검을 곧게 뻗는다. 반격은 기본 베기, 대공기는 올려베기의 몸 그림을 사용한다.
 대기·이동·공격의 몸 크기는 `src/hero-rig.js`에서 같은 성인 체형을 기준으로 맞춘다. 시트별 중립 자세의 정수리와 발바닥을 측정해 고정 배율을 정하고, 각 프레임에는 실제 발바닥 위치를 등록했다. 프레임마다 몸을 늘이거나 줄이지 않는다. 대기와 일곱 공격 시트의 복귀 자세, 회복·공명의 중립 자세는 실제 화면에서 높이 60픽셀, 걷기 기준 프레임은 61픽셀로 확인한다. 무릎·허리를 굽히면 머리 위치가 자연스럽게 낮아진다. 손·검 판정·잔상도 같은 배율과 발 기준점을 사용한다.
@@ -114,4 +117,4 @@ npm run build
 
 생성한 원본 PNG 31장을 사용한다. 전용 베기·찌르기 시트 일곱 장의 실제 몸 동작 168셀, 수리공 기본 64셀과 이전 동작 시트, 대기용 몸체·별도 검 이미지, 일반 적 48프레임, 다섯 보스 각 24프레임과 점검기사 24프레임, 다섯 지역의 배경과 지형·시설·함정 아틀라스다. 출처는 [assets/LICENSE.md](assets/LICENSE.md)에 기록했다. 사진이나 기존 게임의 스프라이트를 가져오지 않았다. 그리드 추출·등록점·알파 정리·최근접 출력으로 실제 게임에 연결했다. 사람이 모든 픽셀과 중간 동작을 다듬은 상용 팩이라고 주장하지 않는다. 일부 관절 연결과 중간 프레임은 더 다듬을 여지가 있다. 소리는 오리지널 Web Audio 합성과 편곡이다.
 
-101개 단위 검사는 이동·전투·저장·경제의 회귀와 새 검 선분·기술 선행 조건·효과·함정·왕궁 장치·결말의 일회 저장을 다룬다. 이전 세 타격 튜토리얼에서 일부만 완료한 저장도 새 2연타로 마칠 수 있다. 초기화 이후 저장 차단과 실패 처리, 새 검의 고정 길이·서로 다른 베기 방향·뒤로 힘을 모으는 이동과 벽 충돌·타격음 시점·24단계 선택·60Hz 재생·이어치기 자세·잔상 수명·피해 중복 방지·공중/지상 전환도 검사한다. `test:techniques`는 실제 키보드·마우스·터치 경로의 대공과 점프 캔슬, 회피 찌르기, 낙하와 실제 착지, 길게 누른 모아 베기, 창 전환 취소, 실제 일반 적의 공격을 패링한 뒤 반격, 모바일 버튼 겹침을 검사한다. 찌르기 직전의 팔꿈치·손 당김과 대시 후 전용 시트 재생을 키보드·터치로 확인하고, 80단위 앞의 적에게는 맞고 115단위의 적이나 벽 뒤에는 맞지 않는 큰 베기도 검사한다. `test:reset`은 실제 새로고침과 페이지 종료 자동 저장, 삭제 취소·실패, 새 튜토리얼 저장, 다른 게임 기록 보존, 첫 플레이 후 모바일 초기화를 검사한다. `test:size`는 캔버스 설정값 대신 실제 렌더러가 그린 몸 픽셀의 높이와 발 위치를 검사한다. 일곱 시트의 24동작을 양쪽 방향으로 확인하고, 무릎 굽힘을 유지하면서 시트의 배율은 일정한지, 키보드와 터치로 이동·2연타·대기로 돌아갈 수 있는지 검사한다. 비교 그림은 `test-results/093-size-registration.png`에 남긴다. `test:frames`는 잔상·파티클·피격 효과를 제외한 실제 렌더러에서 각 베기의 몸 이미지 24종·몸 실루엣 24종·완성 그림 24종을 확인하고, 60Hz 실행에서도 24단계를 확인한다. 단계별 그림은 `test-results/093-*-24-poses.png`에 남긴다. `test:motion`은 이 프레임 검사 후 실제 렌더러에서 두 번의 기본 베기와 정확한 한 번씩의 피해, 둥근 잔상의 중간 가장자리, 좌클릭 방향·공중 베기·강공격·모바일 터치의 잔상을 캡처한다. `test:tutorial`은 새 게임의 기본 진입, 실제 착지와 키보드 이어치기, 입력으로 증명하는 회피·막기·강공격·공명, 중간 저장과 완료, 0.6 저장의 별도 연습과 복귀/새로고침, 터치 이동·점프·이어치기를 확인한다. 실제 Chromium 본편 경로 검사는 처음부터 획득한 저장으로 다섯 보스와 필수 장치·기록·왕궁의 마지막 선택까지 입력 드라이버로 진행한다. 해당 경로에서는 **일반 적과 함정만 제외해 지형·보스 전투를 분리**한다. 일반 적·투사체·함정·새 이미지 108셀·모바일 기술 학습과 화면은 별도 브라우저 검사로 확인한다. 함정 검사는 시작 위치를 정하는 독립 테스트 장면을 쓰며 점프 통과는 실제 이동 입력으로 검사한다. 전체 적과 함정이 있는 상태의 장시간 수동 완주, 모든 실기기 성능, 숨은 결말의 처음부터 끝까지의 수동 완주를 검증했다고 주장하지 않는다. 스크린샷은 무시되는 `test-results/`에 남긴다.
+101개 단위 검사는 이동·전투·저장·경제의 회귀와 새 검 선분·기술 선행 조건·효과·함정·왕궁 장치·결말의 일회 저장을 다룬다. 이전 세 타격 튜토리얼에서 일부만 완료한 저장도 새 2연타로 마칠 수 있다. 초기화 이후 저장 차단과 실패 처리, 새 검의 고정 길이·서로 다른 베기 방향·뒤로 힘을 모으는 이동과 벽 충돌·타격음 시점·24단계 선택·60Hz 재생·이어치기 자세·잔상 수명·피해 중복 방지·공중/지상 전환도 검사한다. `test:techniques`는 실제 키보드·마우스·터치 경로의 대공과 점프 캔슬, 회피 찌르기, 낙하와 실제 착지, 길게 누른 모아 베기, 창 전환 취소, 실제 일반 적의 공격을 패링한 뒤 반격, 모바일 버튼 겹침을 검사한다. 찌르기 직전의 팔꿈치·손 당김과 대시 후 전용 시트 재생을 키보드·터치로 확인하고, 80단위 앞의 적에게는 맞고 115단위의 적이나 벽 뒤에는 맞지 않는 큰 베기도 검사한다. `test:reset`은 실제 새로고침과 페이지 종료 자동 저장, 삭제 취소·실패, 새 튜토리얼 저장, 다른 게임 기록 보존, 첫 플레이 후 모바일 초기화를 검사한다. `test:size`는 캔버스 설정값 대신 실제 렌더러가 그린 몸 픽셀의 높이와 발 위치를 검사한다. 일곱 시트의 24동작을 양쪽 방향으로 확인하고, 무릎 굽힘을 유지하면서 시트의 배율은 일정한지, 키보드와 터치로 이동·2연타·대기로 돌아갈 수 있는지 검사한다. 비교 그림은 `test-results/094-size-registration.png`에 남긴다. `test:clarity`는 전체 동작 시트에서 외투·목도리의 실제 픽셀 밝기를 비교하고, 베기 중간 자세 열 장이 0.20~0.24초 동안 재생되는지, 패링·피격 때 중앙 배경 밝기가 유지되는지 검사한다. 실제 J 입력의 재생 시간과 2연타 화면도 남긴다. `test:frames`는 잔상·파티클·피격 효과를 제외한 실제 렌더러에서 각 베기의 몸 이미지 24종·몸 실루엣 24종·완성 그림 24종을 확인하고, 60Hz 실행에서도 24단계를 확인한다. 단계별 그림은 `test-results/094-*-24-poses.png`에 남긴다. `test:motion`은 이 프레임 검사 후 실제 렌더러에서 두 번의 기본 베기와 정확한 한 번씩의 피해, 둥근 잔상의 중간 가장자리, 좌클릭 방향·공중 베기·강공격·모바일 터치의 잔상을 캡처한다. `test:tutorial`은 새 게임의 기본 진입, 실제 착지와 키보드 이어치기, 입력으로 증명하는 회피·막기·강공격·공명, 중간 저장과 완료, 0.6 저장의 별도 연습과 복귀/새로고침, 터치 이동·점프·이어치기를 확인한다. 실제 Chromium 본편 경로 검사는 처음부터 획득한 저장으로 다섯 보스와 필수 장치·기록·왕궁의 마지막 선택까지 입력 드라이버로 진행한다. 해당 경로에서는 **일반 적과 함정만 제외해 지형·보스 전투를 분리**한다. 일반 적·투사체·함정·새 이미지 108셀·모바일 기술 학습과 화면은 별도 브라우저 검사로 확인한다. 함정 검사는 시작 위치를 정하는 독립 테스트 장면을 쓰며 점프 통과는 실제 이동 입력으로 검사한다. 전체 적과 함정이 있는 상태의 장시간 수동 완주, 모든 실기기 성능, 숨은 결말의 처음부터 끝까지의 수동 완주를 검증했다고 주장하지 않는다. 스크린샷은 무시되는 `test-results/`에 남긴다.

diff --git a/seventh-bell/assets/LICENSE.md b/seventh-bell/assets/LICENSE.md
@@ -25,11 +25,11 @@ All visual game assets in this directory were created specifically for **Echoes 
 | arkein.png | exec-1a4faf34-56e6-4d1e-a047-bfaa768c45a5.png | Dedicated crownless king, 6×4 atlas; image-tool cleanup of exec-39bda410-1bd4-434a-9797-3de407408c90.png |
 | palace.png | exec-793bca28-746f-45ea-9fa2-1d57e8d38b8e.png | Original ruined palace panorama |
 | traps.png | exec-b3cccea2-4e2b-441f-851e-b993285f5abc.png | Animated spikes, pendulum, crusher, crossbow and royal machinery, 4×3 atlas |
-| cut-light1.png | exec-f81b606a-7325-49cb-892d-d3c5ee49e9f4.png | Broad two-handed diagonal forehand with rear-shoulder preparation, 24 adult body drawings in a 6×4 atlas |
+| cut-light1.png | exec-87a02921-b310-4548-aaf4-cdd8f019d2b2.png | Broad two-handed diagonal forehand with rear-shoulder preparation, 24 adult body drawings in a 6×4 atlas |
 | cut-light2.png | exec-ea2f4c83-8bce-4342-97fc-8635f153c89b.png | Dedicated anti-air rising cut (↑ + attack), excluded from the basic combo since 0.9.2; 24 adult body drawings in a 6×4 atlas |
-| cut-light3.png | exec-bea37259-b327-4e5b-83ba-e0376e845f9f.png | Fixed side-view overhead finisher, 24 adult body drawings in a 6×4 atlas |
-| cut-heavy.png | exec-c34bba55-ae95-4d7f-918b-8a39cab914d9.png | Fixed side-view charged overhead cut, 24 adult body drawings in a 6×4 atlas |
-| cut-air.png | exec-28fc479a-7c37-4e51-b3b2-e4bbee11f924.png | Fixed side-view airborne broad cut, 24 adult body drawings in a 6×4 atlas |
+| cut-light3.png | exec-452103eb-e0ef-43ea-910e-043880e201e2.png | Fixed side-view overhead finisher, 24 adult body drawings in a 6×4 atlas |
+| cut-heavy.png | exec-5a835e29-b0a4-420c-9988-b42da28b7433.png | Fixed side-view charged overhead cut, 24 adult body drawings in a 6×4 atlas |
+| cut-air.png | exec-48e3e232-0513-4d66-b3cc-d2f32c1ce81e.png | Fixed side-view airborne broad cut, 24 adult body drawings in a 6×4 atlas |
 | cut-thrust.png | exec-d52a0022-c7ac-481f-9575-9cb21d24747e.png | Dedicated elbow-back thrust preparation, long extension and recovery, 24 adult body drawings in a 6×4 atlas |
 | cut-plunge.png | exec-1af29740-a3bf-4e34-8bd4-839a2cafdcee.png | Dedicated vertical plunge and landing recovery, 24 adult body drawings in a 6×4 atlas |
 | cut-body.png | exec-572cf9d7-8978-4091-917e-1d40abae33a5.png | Original body-only downstroke, rising cut, finishing cut and ready stance, 8×4 atlas |
@@ -37,7 +37,9 @@ All visual game assets in this directory were created specifically for **Echoes 
 | tutor.png | exec-18fde72d-f3e6-4cb6-994b-2c9b4514d781.png | Original bell repair practice automaton, 6×4 animation atlas |
 | bell.svg | Authored in this task | Small original UI emblem |
 
-The six 0.9.0 attack sheets were edited with the image tool from the previous original sheets, preserving tall adult proportions and removing perspective turns. Each uses four anticipation, two impact and eighteen recovery drawings. The downward plunge holds its dive drawing until terrain contact. In 0.9.1 the first cut was replaced with a larger two-handed diagonal motion and thrust received its own 24-drawing sheet with a clear elbow-back chamber. Counter uses the first cut; anti-air uses the rising sequence. Steel is registered at length 48; rendered trails and collision use the same rigid rotating samples.
+The six 0.9.0 attack sheets were edited with the image tool from the previous original sheets, preserving tall adult proportions and removing perspective turns. They originally used four anticipation, two impact and eighteen recovery drawings. The downward plunge holds its dive drawing until terrain contact. In 0.9.1 the first cut was replaced with a larger two-handed diagonal motion and thrust received its own 24-drawing sheet with a clear elbow-back chamber. Counter uses the first cut; anti-air uses the rising sequence. Steel is registered at length 48; rendered trails and collision use the same rigid rotating samples.
+
+In 0.9.4 the forehand, overhead finisher, charged overhead and airborne cut were regenerated with six preparation, ten distinct in-between cutting poses and eight recovery drawings. The actual swing now lasts 0.20–0.24 seconds rather than two 60 Hz frames. Runtime material palettes are matched to the original ready stance when each hero cell is cached, preventing changes in clothing exposure between sheets. All four replacements were made with the image tool from the project's own original character references.
 
 Original generated outputs are retained in `/workspace/generated_images/`. Runtime code crops the explicit grid, rasterizes animation cells and disables interpolation. It does not use a photographic source or apply a photo-to-pixel effect. Alpha is thresholded for crisp sprite outlines. The source sheets are generated artwork, not represented as a manually hand-pixelled commercial pack.
 
